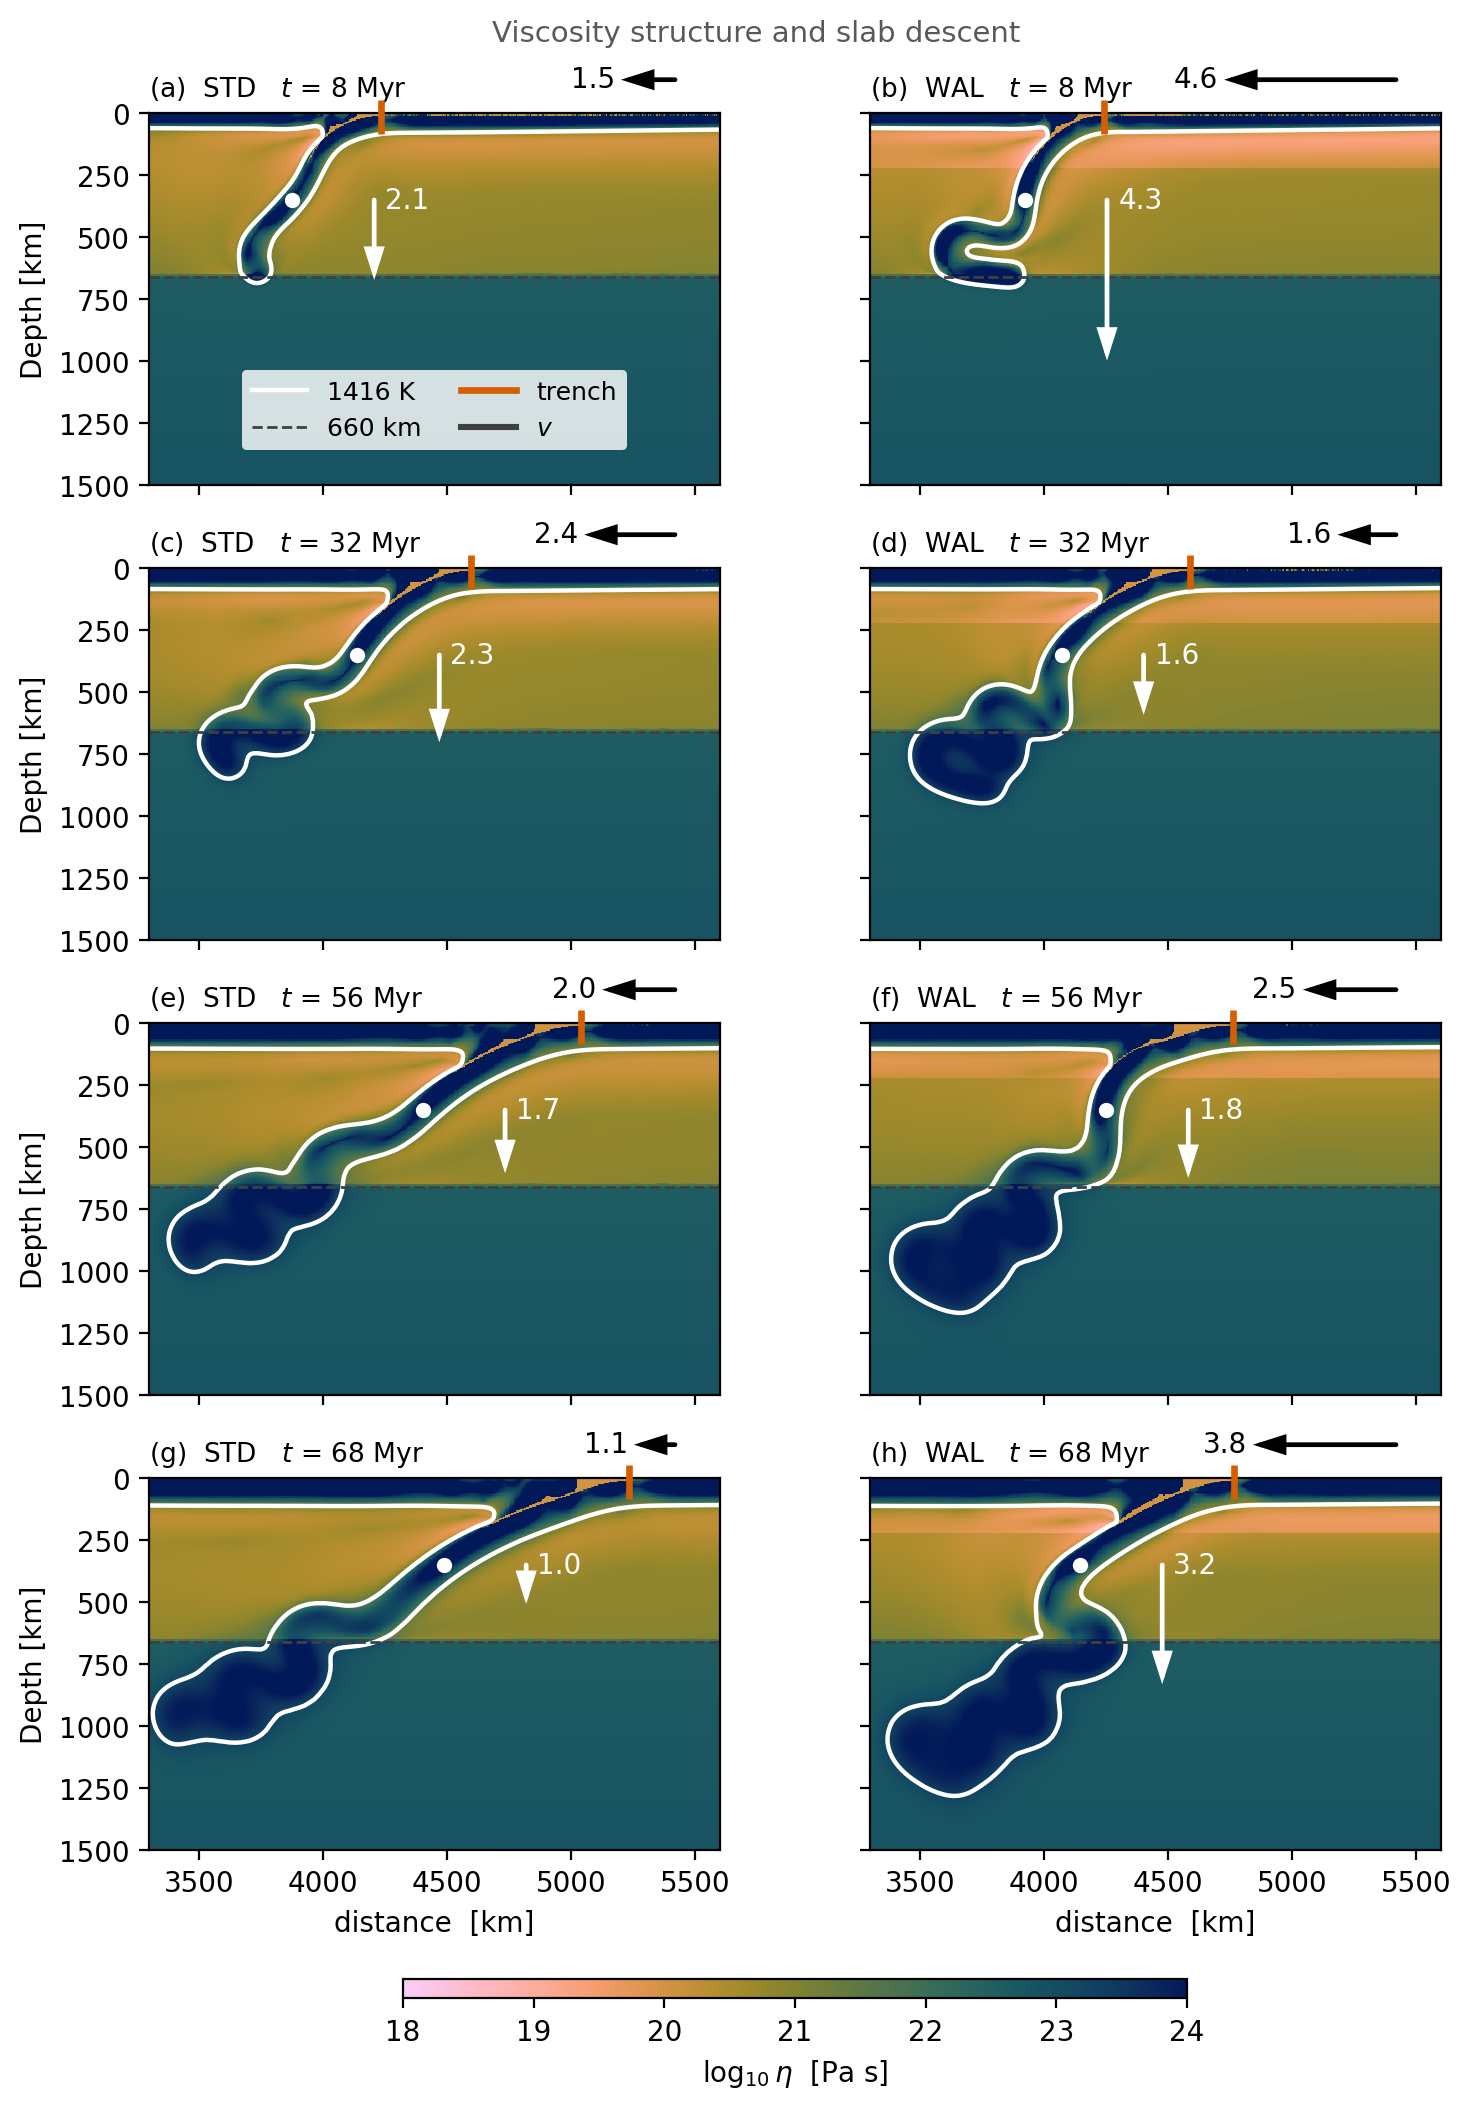
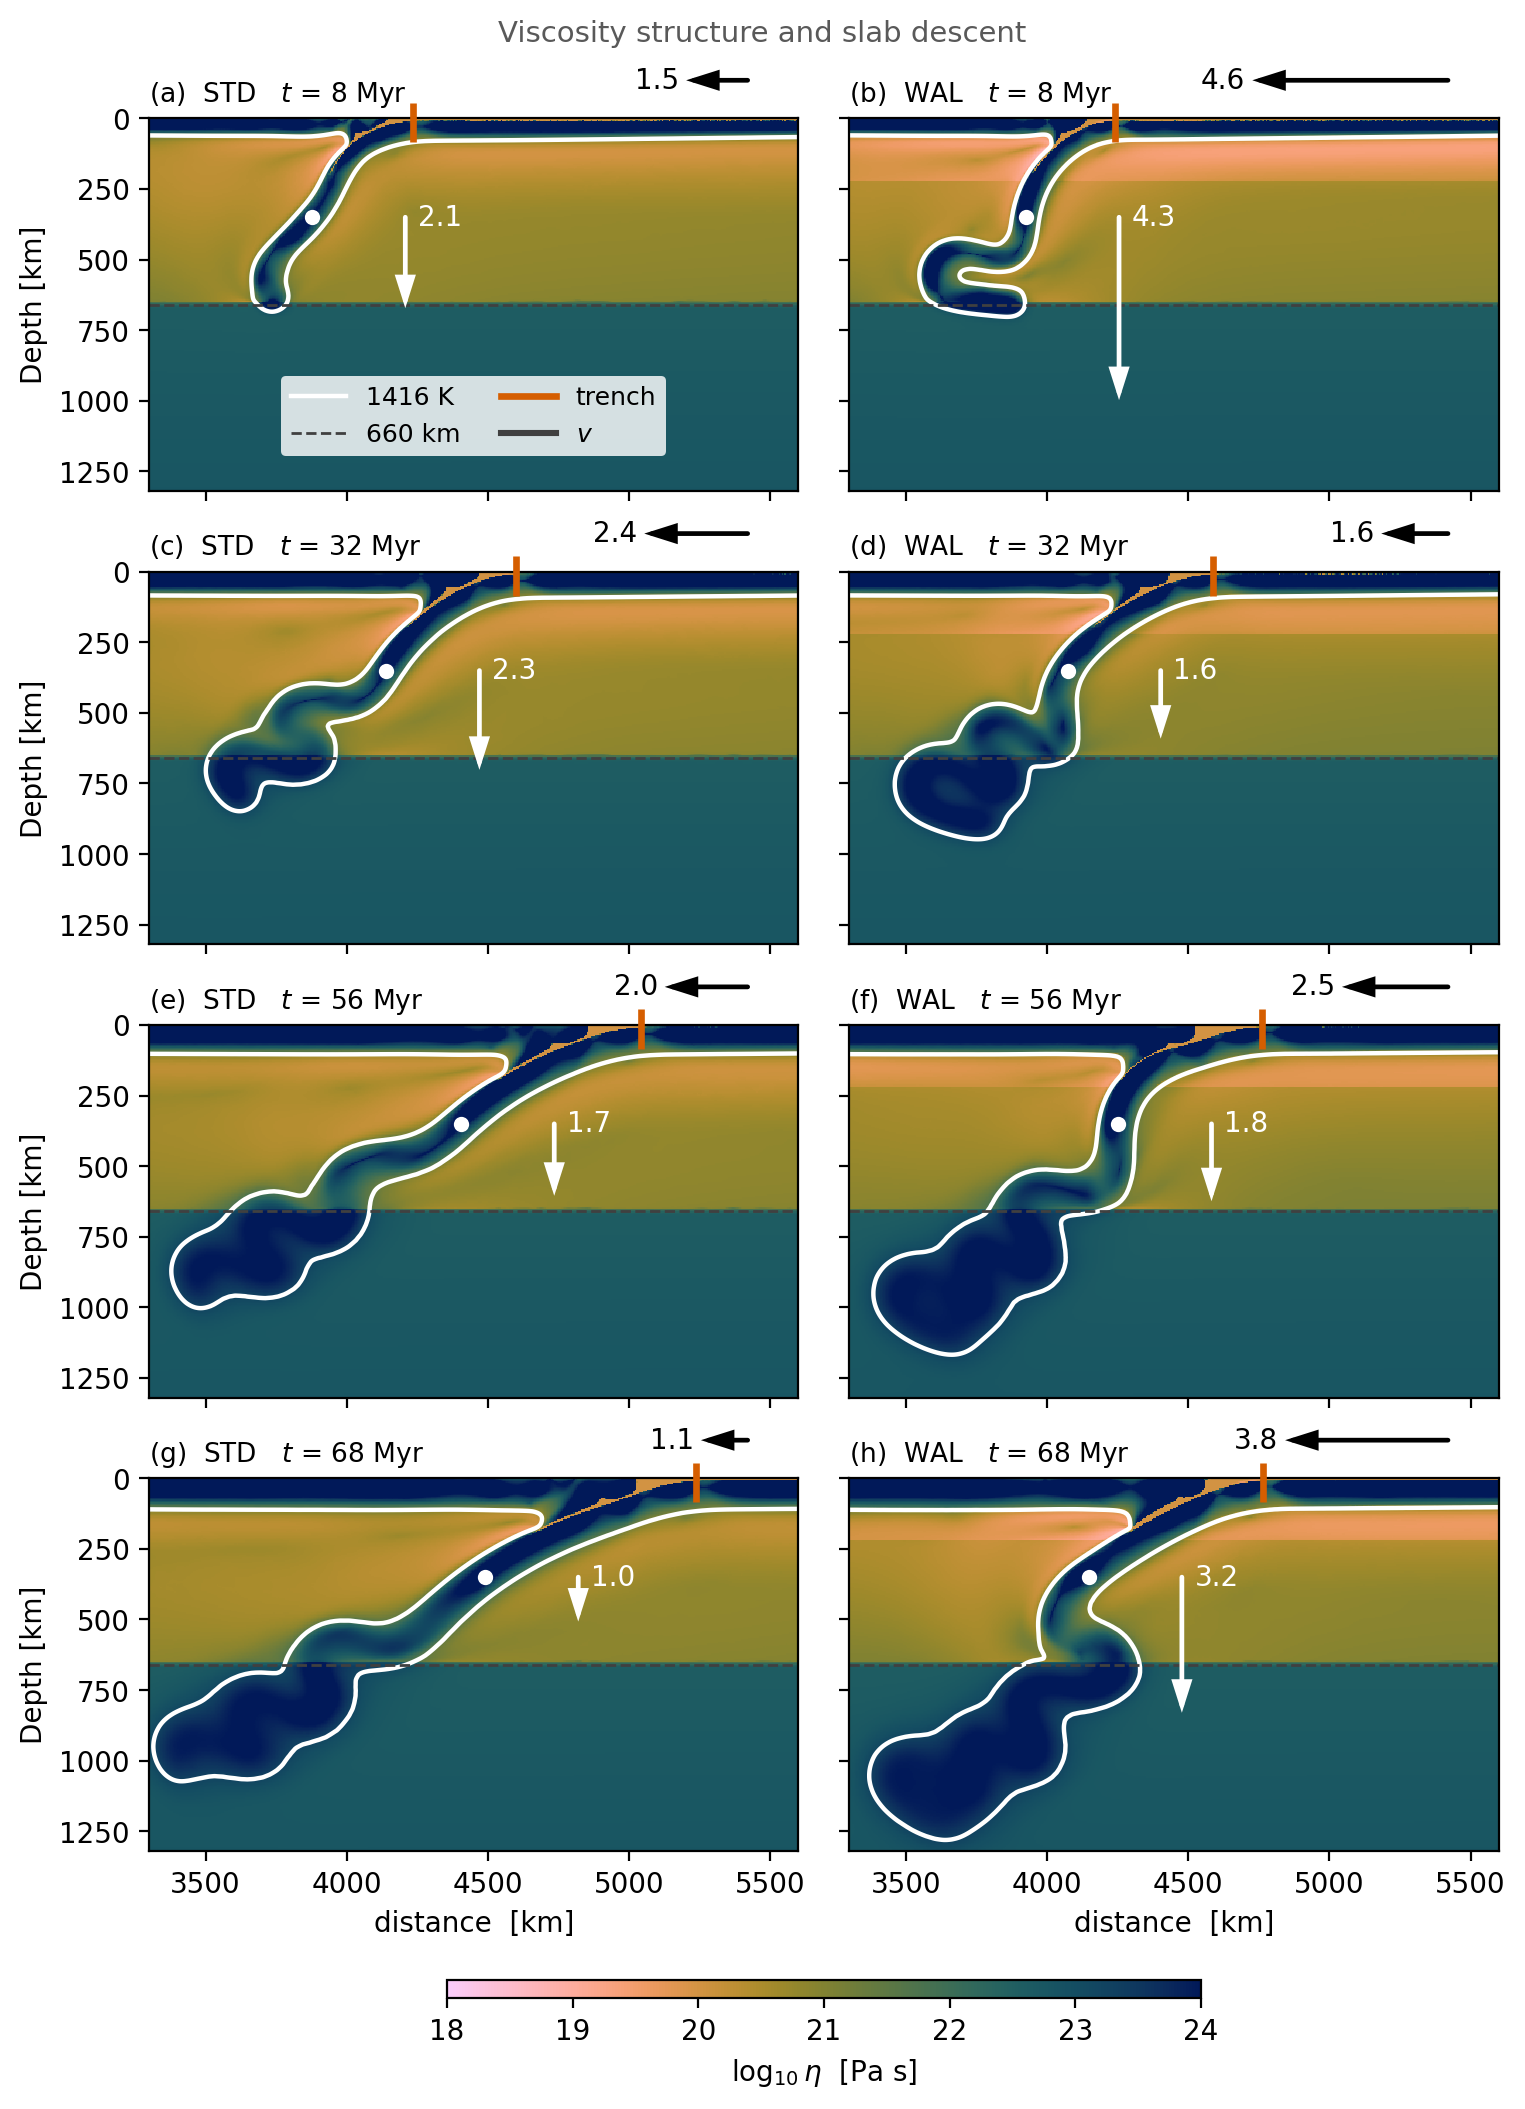
fig_model_evolution: depth range set by the data, not a round number
ZLIM was 1500 km while the deepest 1416 K contour in any of the eight
panels is 1278 km (WAL, 68 Myr). Roughly 15 per cent of every panel was
empty lower mantle. Now 1320 km.

Measured deepest contours, which is what sets the new limit:
  STD  682 / 848 / 1002 / 1072 km
  WAL  702 / 948 / 1168 / 1278 km   at 8 / 32 / 56 / 68 Myr

The panels are 1:1 by Dan's 2026-10-09 ruling, so the axes cannot be
stretched vertically to open up the lithosphere without reintroducing the
dip and fold distortion that the equal aspect exists to prevent. What the
trim buys is the same 1:1 scale at ~14 per cent greater magnification for
the same figure height, which is the legibility gain without the cost.

This was raised while considering a 2x4 -> 2x3 reduction. It is the
cheaper half of that question: no epoch is lost, and each of the four
marks a distinct stage -- arrival at 660, piling on the boundary,
penetration, and WAL's 62-70 Myr episode with STD at its slowest.

diff --git a/scripts/fig_model_evolution.py b/scripts/fig_model_evolution.py
@@ -58,7 +58,16 @@ LOG_ETA = (18.0, 24.0)
 T_MANTLE_K = 1573.15
 T_SLAB_K = 0.90 * T_MANTLE_K     # ~1416 K, the sharp slab edge
 Z660 = 660.0
-ZLIM = (1500.0, 0.0)
+# DEPTH LIMIT SET BY THE DATA (Dan, 2026-10-14). This was 1500 km while the
+# deepest 1416 K contour in any of the eight panels is 1278 km (WAL, 68 Myr;
+# STD reaches 1072). About 15 per cent of every panel was empty mantle.
+# The panels are 1:1, so the axes cannot be stretched vertically to open up
+# the lithosphere without the dip and fold distortion that the equal aspect
+# exists to avoid; what trimming the range buys instead is the SAME 1:1
+# scale at a larger magnification for the same figure height.
+# Deepest contours, measured: STD 682/848/1002/1072, WAL 702/948/1168/1278 km
+# at 8/32/56/68 Myr.
+ZLIM = (1320.0, 0.0)
 # 1:1 ASPECT (Dan, 2026-10-09). The window is narrowed to 2300 km so that
 # equal aspect still leaves the panels readable: at the old 3795 km width
 # the figure was 2.08x vertically exaggerated, which distorts slab dip and
